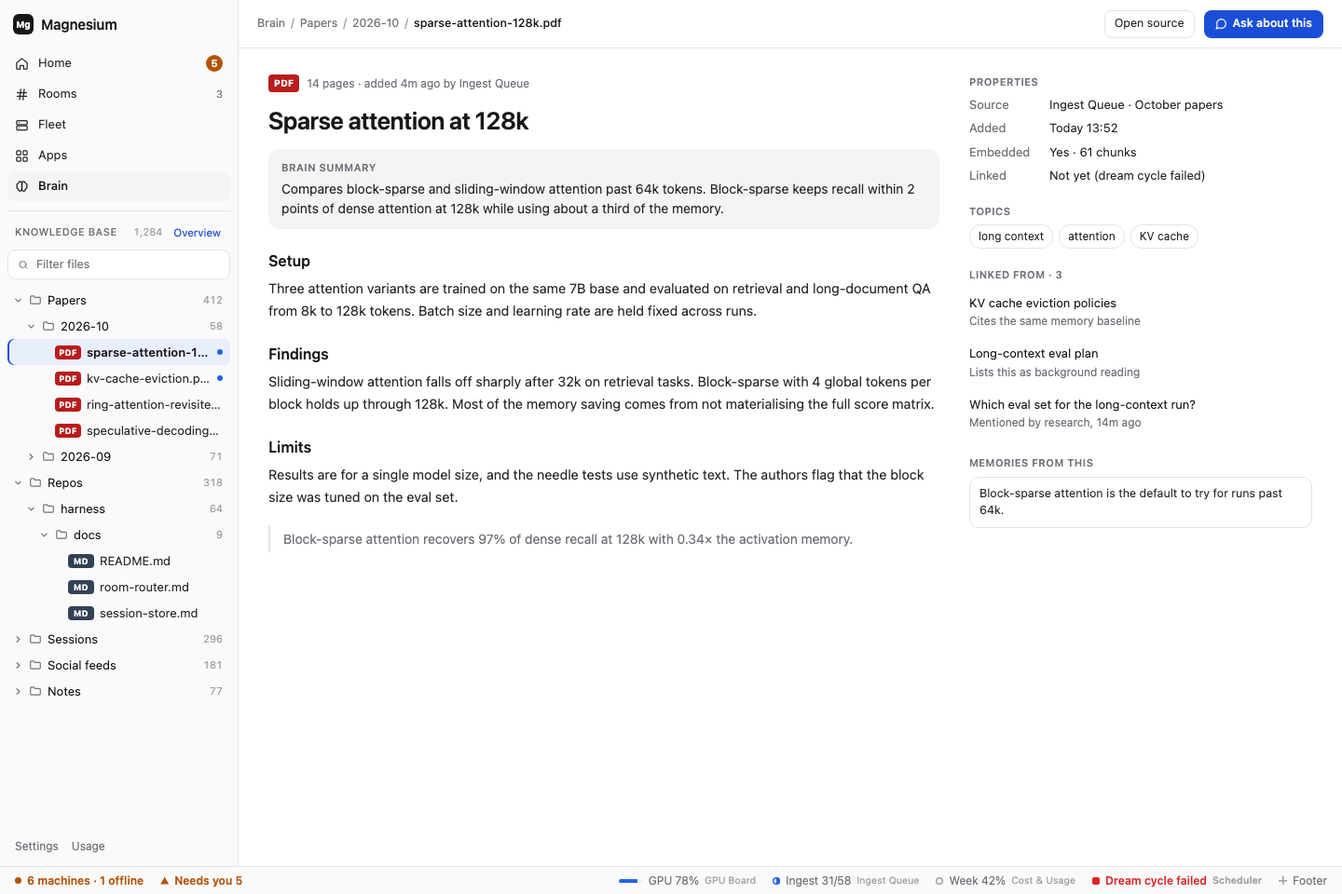
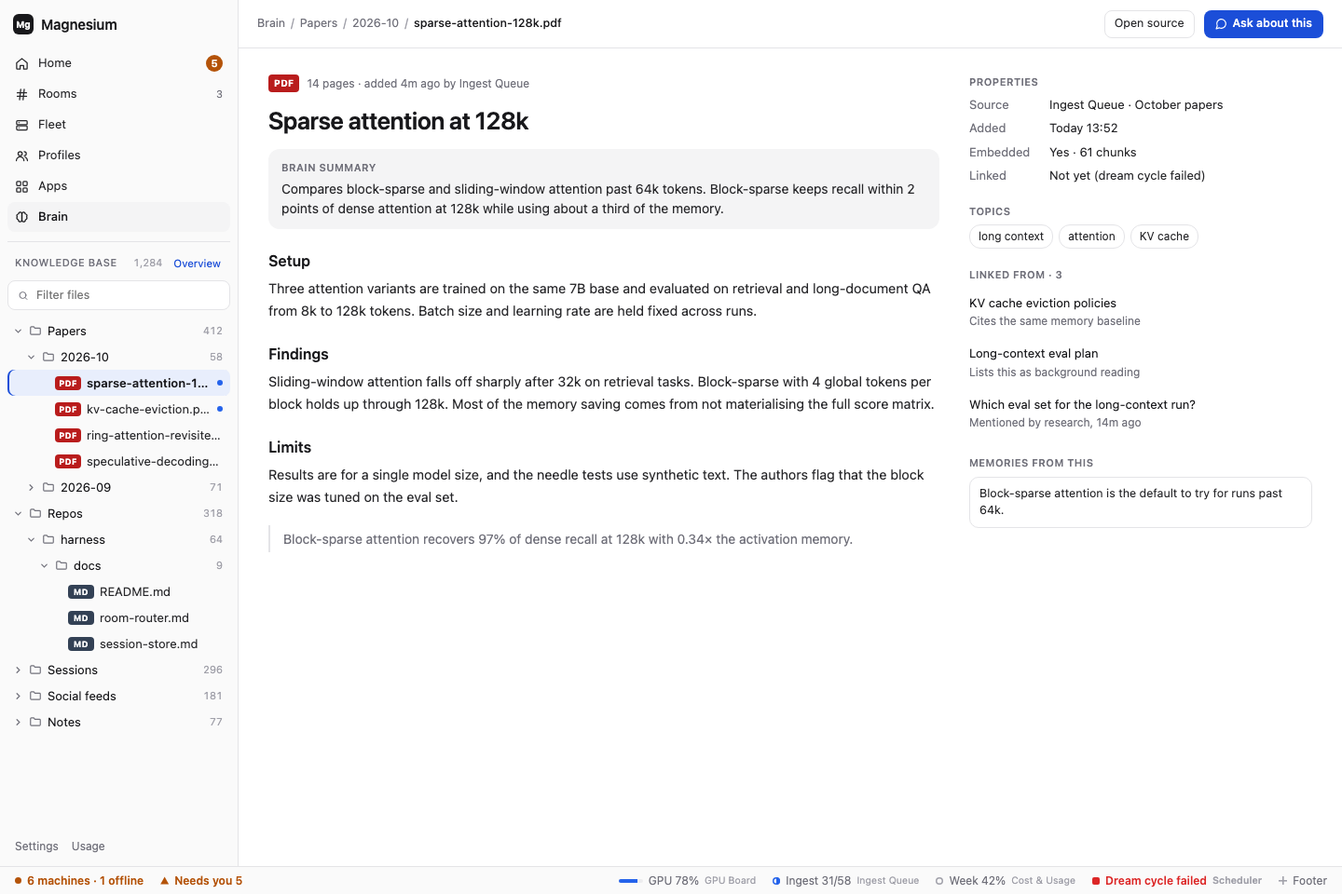
docs: goal 34's boards are approved, and every board has the Profiles place
The owner approved the Profiles boards and decided goal 03's Session board
differences, so goal 34's build starts. Every desktop board's sidebar now
lists Profiles after Fleet.

Changed region(s): [[0.0, 0.1562, 0.1562, 0.8125], [0.125, 0.25, 0.1562, 0.3125]]

diff --git a/docs/magnesium/mockups/canvas/Brain.dc.html b/docs/magnesium/mockups/canvas/Brain.dc.html
@@ -42,6 +42,10 @@ a{color:inherit;text-decoration:none}a:hover{color:inherit}
         <svg width="15" height="15" viewBox="0 0 24 24" fill="none" stroke="currentColor" stroke-width="2" stroke-linecap="round" stroke-linejoin="round" aria-hidden="true"><rect x="3" y="4" width="18" height="7" rx="1.5"></rect><rect x="3" y="13" width="18" height="7" rx="1.5"></rect><path d="M7 7.5h.01M7 16.5h.01"></path></svg>
         <span style="flex: 1">Fleet</span><span style="width: 7px; height: 7px; border-radius: 2px; background: var(--err)" title="One machine offline"></span>
       </a>
+      <a href="Profiles.dc.html" class="hov" style="display: flex; align-items: center; gap: 10px; height: 32px; padding: 0 8px; border-radius: 8px; font-size: 13px">
+        <svg width="15" height="15" viewBox="0 0 24 24" fill="none" stroke="currentColor" stroke-width="2" stroke-linecap="round" stroke-linejoin="round" aria-hidden="true"><circle cx="9" cy="8" r="3.5"></circle><path d="M2.5 20a6.5 6.5 0 0 1 13 0"></path><path d="M16 4.5a3.5 3.5 0 0 1 0 7M21.5 20a6.5 6.5 0 0 0-4-6"></path></svg>
+        <span style="flex: 1">Profiles</span>
+      </a>
       <a href="Apps.dc.html" class="hov" style="display: flex; align-items: center; gap: 10px; height: 32px; padding: 0 8px; border-radius: 8px; font-size: 13px">
         <svg width="15" height="15" viewBox="0 0 24 24" fill="none" stroke="currentColor" stroke-width="2" stroke-linecap="round" stroke-linejoin="round" aria-hidden="true"><rect x="3" y="3" width="7" height="7" rx="1.5"></rect><rect x="14" y="3" width="7" height="7" rx="1.5"></rect><rect x="3" y="14" width="7" height="7" rx="1.5"></rect><rect x="14" y="14" width="7" height="7" rx="1.5"></rect></svg>
         <span style="flex: 1">Apps</span><span style="font-size: 11px; color: var(--muted)">4 pinned</span>

diff --git a/docs/magnesium/mockups/canvas/Apps.dc.html b/docs/magnesium/mockups/canvas/Apps.dc.html
@@ -42,6 +42,10 @@ a{color:inherit;text-decoration:none}a:hover{color:inherit}
         <svg width="15" height="15" viewBox="0 0 24 24" fill="none" stroke="currentColor" stroke-width="2" stroke-linecap="round" stroke-linejoin="round" aria-hidden="true"><rect x="3" y="4" width="18" height="7" rx="1.5"></rect><rect x="3" y="13" width="18" height="7" rx="1.5"></rect><path d="M7 7.5h.01M7 16.5h.01"></path></svg>
         <span style="flex: 1">Fleet</span>
       </a>
+      <a href="Profiles.dc.html" class="hov" style="display: flex; align-items: center; gap: 10px; height: 32px; padding: 0 8px; border-radius: 8px; font-size: 13px">
+        <svg width="15" height="15" viewBox="0 0 24 24" fill="none" stroke="currentColor" stroke-width="2" stroke-linecap="round" stroke-linejoin="round" aria-hidden="true"><circle cx="9" cy="8" r="3.5"></circle><path d="M2.5 20a6.5 6.5 0 0 1 13 0"></path><path d="M16 4.5a3.5 3.5 0 0 1 0 7M21.5 20a6.5 6.5 0 0 0-4-6"></path></svg>
+        <span style="flex: 1">Profiles</span>
+      </a>
       <a href="Apps.dc.html" aria-current="page" style="display: flex; align-items: center; gap: 10px; height: 32px; padding: 0 8px; border-radius: 8px; font-size: 13px; background: var(--hover); color: var(--fg-strong); font-weight: 500">
         <svg width="15" height="15" viewBox="0 0 24 24" fill="none" stroke="currentColor" stroke-width="2" stroke-linecap="round" stroke-linejoin="round" aria-hidden="true"><rect x="3" y="3" width="7" height="7" rx="1.5"></rect><rect x="14" y="3" width="7" height="7" rx="1.5"></rect><rect x="3" y="14" width="7" height="7" rx="1.5"></rect><rect x="14" y="14" width="7" height="7" rx="1.5"></rect></svg>
         <span style="flex: 1">Apps</span>

diff --git a/docs/magnesium/mockups/canvas/AppView.dc.html b/docs/magnesium/mockups/canvas/AppView.dc.html
@@ -40,6 +40,10 @@ a{color:inherit;text-decoration:none}a:hover{color:inherit}
         <svg width="15" height="15" viewBox="0 0 24 24" fill="none" stroke="currentColor" stroke-width="2" stroke-linecap="round" stroke-linejoin="round" aria-hidden="true"><rect x="3" y="4" width="18" height="7" rx="1.5"></rect><rect x="3" y="13" width="18" height="7" rx="1.5"></rect><path d="M7 7.5h.01M7 16.5h.01"></path></svg>
         <span style="flex: 1">Fleet</span>
       </a>
+      <a href="Profiles.dc.html" class="hov" style="display: flex; align-items: center; gap: 10px; height: 32px; padding: 0 8px; border-radius: 8px; font-size: 13px">
+        <svg width="15" height="15" viewBox="0 0 24 24" fill="none" stroke="currentColor" stroke-width="2" stroke-linecap="round" stroke-linejoin="round" aria-hidden="true"><circle cx="9" cy="8" r="3.5"></circle><path d="M2.5 20a6.5 6.5 0 0 1 13 0"></path><path d="M16 4.5a3.5 3.5 0 0 1 0 7M21.5 20a6.5 6.5 0 0 0-4-6"></path></svg>
+        <span style="flex: 1">Profiles</span>
+      </a>
       <a href="Apps.dc.html" class="hov" style="display: flex; align-items: center; gap: 10px; height: 32px; padding: 0 8px; border-radius: 8px; font-size: 13px">
         <svg width="15" height="15" viewBox="0 0 24 24" fill="none" stroke="currentColor" stroke-width="2" stroke-linecap="round" stroke-linejoin="round" aria-hidden="true"><rect x="3" y="3" width="7" height="7" rx="1.5"></rect><rect x="14" y="3" width="7" height="7" rx="1.5"></rect><rect x="3" y="14" width="7" height="7" rx="1.5"></rect><rect x="14" y="14" width="7" height="7" rx="1.5"></rect></svg>
         <span style="flex: 1">Apps</span>

diff --git a/docs/magnesium/mockups/canvas/BrainDoc.dc.html b/docs/magnesium/mockups/canvas/BrainDoc.dc.html
@@ -41,6 +41,10 @@ a{color:inherit;text-decoration:none}a:hover{color:inherit}
         <svg width="15" height="15" viewBox="0 0 24 24" fill="none" stroke="currentColor" stroke-width="2" stroke-linecap="round" stroke-linejoin="round" aria-hidden="true"><rect x="3" y="4" width="18" height="7" rx="1.5"></rect><rect x="3" y="13" width="18" height="7" rx="1.5"></rect><path d="M7 7.5h.01M7 16.5h.01"></path></svg>
         <span style="flex: 1">Fleet</span>
       </a>
+      <a href="Profiles.dc.html" class="hov" style="display: flex; align-items: center; gap: 10px; height: 32px; padding: 0 8px; border-radius: 8px; font-size: 13px">
+        <svg width="15" height="15" viewBox="0 0 24 24" fill="none" stroke="currentColor" stroke-width="2" stroke-linecap="round" stroke-linejoin="round" aria-hidden="true"><circle cx="9" cy="8" r="3.5"></circle><path d="M2.5 20a6.5 6.5 0 0 1 13 0"></path><path d="M16 4.5a3.5 3.5 0 0 1 0 7M21.5 20a6.5 6.5 0 0 0-4-6"></path></svg>
+        <span style="flex: 1">Profiles</span>
+      </a>
       <a href="Apps.dc.html" class="hov" style="display: flex; align-items: center; gap: 10px; height: 32px; padding: 0 8px; border-radius: 8px; font-size: 13px">
         <svg width="15" height="15" viewBox="0 0 24 24" fill="none" stroke="currentColor" stroke-width="2" stroke-linecap="round" stroke-linejoin="round" aria-hidden="true"><rect x="3" y="3" width="7" height="7" rx="1.5"></rect><rect x="14" y="3" width="7" height="7" rx="1.5"></rect><rect x="3" y="14" width="7" height="7" rx="1.5"></rect><rect x="14" y="14" width="7" height="7" rx="1.5"></rect></svg>
         <span style="flex: 1">Apps</span>

diff --git a/docs/magnesium/mockups/canvas/Fleet.dc.html b/docs/magnesium/mockups/canvas/Fleet.dc.html
@@ -40,6 +40,10 @@ a{color:inherit;text-decoration:none}a:hover{color:inherit}
         <svg width="15" height="15" viewBox="0 0 24 24" fill="none" stroke="currentColor" stroke-width="2" stroke-linecap="round" stroke-linejoin="round" aria-hidden="true"><rect x="3" y="4" width="18" height="7" rx="1.5"></rect><rect x="3" y="13" width="18" height="7" rx="1.5"></rect><path d="M7 7.5h.01M7 16.5h.01"></path></svg>
         <span style="flex: 1">Fleet</span>
       </a>
+      <a href="Profiles.dc.html" class="hov" style="display: flex; align-items: center; gap: 10px; height: 32px; padding: 0 8px; border-radius: 8px; font-size: 13px">
+        <svg width="15" height="15" viewBox="0 0 24 24" fill="none" stroke="currentColor" stroke-width="2" stroke-linecap="round" stroke-linejoin="round" aria-hidden="true"><circle cx="9" cy="8" r="3.5"></circle><path d="M2.5 20a6.5 6.5 0 0 1 13 0"></path><path d="M16 4.5a3.5 3.5 0 0 1 0 7M21.5 20a6.5 6.5 0 0 0-4-6"></path></svg>
+        <span style="flex: 1">Profiles</span>
+      </a>
       <a href="Apps.dc.html" class="hov" style="display: flex; align-items: center; gap: 10px; height: 32px; padding: 0 8px; border-radius: 8px; font-size: 13px">
         <svg width="15" height="15" viewBox="0 0 24 24" fill="none" stroke="currentColor" stroke-width="2" stroke-linecap="round" stroke-linejoin="round" aria-hidden="true"><rect x="3" y="3" width="7" height="7" rx="1.5"></rect><rect x="14" y="3" width="7" height="7" rx="1.5"></rect><rect x="3" y="14" width="7" height="7" rx="1.5"></rect><rect x="14" y="14" width="7" height="7" rx="1.5"></rect></svg>
         <span style="flex: 1">Apps</span>

diff --git a/docs/magnesium/mockups/canvas/Project.dc.html b/docs/magnesium/mockups/canvas/Project.dc.html
@@ -41,6 +41,10 @@ a{color:inherit;text-decoration:none}a:hover{color:inherit}
         <svg width="15" height="15" viewBox="0 0 24 24" fill="none" stroke="currentColor" stroke-width="2" stroke-linecap="round" stroke-linejoin="round" aria-hidden="true"><rect x="3" y="4" width="18" height="7" rx="1.5"></rect><rect x="3" y="13" width="18" height="7" rx="1.5"></rect><path d="M7 7.5h.01M7 16.5h.01"></path></svg>
         <span style="flex: 1">Fleet</span>
       </a>
+      <a href="Profiles.dc.html" class="hov" style="display: flex; align-items: center; gap: 10px; height: 32px; padding: 0 8px; border-radius: 8px; font-size: 13px">
+        <svg width="15" height="15" viewBox="0 0 24 24" fill="none" stroke="currentColor" stroke-width="2" stroke-linecap="round" stroke-linejoin="round" aria-hidden="true"><circle cx="9" cy="8" r="3.5"></circle><path d="M2.5 20a6.5 6.5 0 0 1 13 0"></path><path d="M16 4.5a3.5 3.5 0 0 1 0 7M21.5 20a6.5 6.5 0 0 0-4-6"></path></svg>
+        <span style="flex: 1">Profiles</span>
+      </a>
       <a href="Apps.dc.html" class="hov" style="display: flex; align-items: center; gap: 10px; height: 32px; padding: 0 8px; border-radius: 8px; font-size: 13px">
         <svg width="15" height="15" viewBox="0 0 24 24" fill="none" stroke="currentColor" stroke-width="2" stroke-linecap="round" stroke-linejoin="round" aria-hidden="true"><rect x="3" y="3" width="7" height="7" rx="1.5"></rect><rect x="14" y="3" width="7" height="7" rx="1.5"></rect><rect x="3" y="14" width="7" height="7" rx="1.5"></rect><rect x="14" y="14" width="7" height="7" rx="1.5"></rect></svg>
         <span style="flex: 1">Apps</span>

diff --git a/docs/magnesium/mockups/canvas/Room.dc.html b/docs/magnesium/mockups/canvas/Room.dc.html
@@ -42,6 +42,10 @@ a{color:inherit;text-decoration:none}a:hover{color:inherit}
         <svg width="15" height="15" viewBox="0 0 24 24" fill="none" stroke="currentColor" stroke-width="2" stroke-linecap="round" stroke-linejoin="round" aria-hidden="true"><rect x="3" y="4" width="18" height="7" rx="1.5"></rect><rect x="3" y="13" width="18" height="7" rx="1.5"></rect><path d="M7 7.5h.01M7 16.5h.01"></path></svg>
         <span style="flex: 1">Fleet</span>
       </a>
+      <a href="Profiles.dc.html" class="hov" style="display: flex; align-items: center; gap: 10px; height: 32px; padding: 0 8px; border-radius: 8px; font-size: 13px">
+        <svg width="15" height="15" viewBox="0 0 24 24" fill="none" stroke="currentColor" stroke-width="2" stroke-linecap="round" stroke-linejoin="round" aria-hidden="true"><circle cx="9" cy="8" r="3.5"></circle><path d="M2.5 20a6.5 6.5 0 0 1 13 0"></path><path d="M16 4.5a3.5 3.5 0 0 1 0 7M21.5 20a6.5 6.5 0 0 0-4-6"></path></svg>
+        <span style="flex: 1">Profiles</span>
+      </a>
       <a href="Apps.dc.html" class="hov" style="display: flex; align-items: center; gap: 10px; height: 32px; padding: 0 8px; border-radius: 8px; font-size: 13px">
         <svg width="15" height="15" viewBox="0 0 24 24" fill="none" stroke="currentColor" stroke-width="2" stroke-linecap="round" stroke-linejoin="round" aria-hidden="true"><rect x="3" y="3" width="7" height="7" rx="1.5"></rect><rect x="14" y="3" width="7" height="7" rx="1.5"></rect><rect x="3" y="14" width="7" height="7" rx="1.5"></rect><rect x="14" y="14" width="7" height="7" rx="1.5"></rect></svg>
         <span style="flex: 1">Apps</span>

diff --git a/docs/magnesium/mockups/canvas/Session.dc.html b/docs/magnesium/mockups/canvas/Session.dc.html
@@ -41,6 +41,10 @@ a{color:inherit;text-decoration:none}a:hover{color:inherit}
         <svg width="15" height="15" viewBox="0 0 24 24" fill="none" stroke="currentColor" stroke-width="2" stroke-linecap="round" stroke-linejoin="round" aria-hidden="true"><rect x="3" y="4" width="18" height="7" rx="1.5"></rect><rect x="3" y="13" width="18" height="7" rx="1.5"></rect><path d="M7 7.5h.01M7 16.5h.01"></path></svg>
         <span style="flex: 1">Fleet</span>
       </a>
+      <a href="Profiles.dc.html" class="hov" style="display: flex; align-items: center; gap: 10px; height: 32px; padding: 0 8px; border-radius: 8px; font-size: 13px">
+        <svg width="15" height="15" viewBox="0 0 24 24" fill="none" stroke="currentColor" stroke-width="2" stroke-linecap="round" stroke-linejoin="round" aria-hidden="true"><circle cx="9" cy="8" r="3.5"></circle><path d="M2.5 20a6.5 6.5 0 0 1 13 0"></path><path d="M16 4.5a3.5 3.5 0 0 1 0 7M21.5 20a6.5 6.5 0 0 0-4-6"></path></svg>
+        <span style="flex: 1">Profiles</span>
+      </a>
       <a href="Apps.dc.html" class="hov" style="display: flex; align-items: center; gap: 10px; height: 32px; padding: 0 8px; border-radius: 8px; font-size: 13px">
         <svg width="15" height="15" viewBox="0 0 24 24" fill="none" stroke="currentColor" stroke-width="2" stroke-linecap="round" stroke-linejoin="round" aria-hidden="true"><rect x="3" y="3" width="7" height="7" rx="1.5"></rect><rect x="14" y="3" width="7" height="7" rx="1.5"></rect><rect x="3" y="14" width="7" height="7" rx="1.5"></rect><rect x="14" y="14" width="7" height="7" rx="1.5"></rect></svg>
         <span style="flex: 1">Apps</span>

diff --git a/docs/magnesium/mockups/canvas/Main.dc.html b/docs/magnesium/mockups/canvas/Main.dc.html
@@ -59,6 +59,10 @@ a{color:inherit;text-decoration:none}a:hover{color:inherit}
         <span style="flex: 1">Fleet</span>
         <span style="width: 7px; height: 7px; border-radius: 2px; background: var(--err)" title="One machine offline"></span>
       </a>
+      <a href="Profiles.dc.html" class="hov" style="display: flex; align-items: center; gap: 10px; height: 32px; padding: 0 8px; border-radius: 8px; font-size: 13px">
+        <svg width="15" height="15" viewBox="0 0 24 24" fill="none" stroke="currentColor" stroke-width="2" stroke-linecap="round" stroke-linejoin="round" aria-hidden="true"><circle cx="9" cy="8" r="3.5"></circle><path d="M2.5 20a6.5 6.5 0 0 1 13 0"></path><path d="M16 4.5a3.5 3.5 0 0 1 0 7M21.5 20a6.5 6.5 0 0 0-4-6"></path></svg>
+        <span style="flex: 1">Profiles</span>
+      </a>
       <button type="button" class="hov" title="Not mocked yet" style="display: flex; align-items: center; gap: 10px; height: 32px; padding: 0 8px; border-radius: 8px; font-size: 13px; border: 0; background: transparent; text-align: left">
         <svg width="15" height="15" viewBox="0 0 24 24" fill="none" stroke="currentColor" stroke-width="2" stroke-linecap="round" stroke-linejoin="round" aria-hidden="true"><circle cx="12" cy="12" r="9"></circle><path d="M12 7v5l3 2"></path></svg>
         <span style="flex: 1">Schedule</span>

diff --git a/TRACKER.md b/TRACKER.md
@@ -6,44 +6,44 @@ The one place for the order goals are built in and where each one stands. Each g
 - **Status** is `Planned`, `In progress`, `Verified` or `Blocked`, with the reason when blocked.
 - Change a goal's row in the same commit that changes its status.
 
-| Goal                                                                   | Order | Description                                                                                                                                                                                                                                                     | Status                                |
-| ---------------------------------------------------------------------- | ----- | --------------------------------------------------------------------------------------------------------------------------------------------------------------------------------------------------------------------------------------------------------------- | ------------------------------------- |
-| [01](docs/magnesium/goals/_completed/01-fork-and-rebrand.goal)         | 1     | **Fork and rebrand.** T3 Code runs as Magnesium, with telemetry and self-update off.                                                                                                                                                                            | Verified                              |
-| [02](docs/magnesium/goals/_completed/02-deploy-hub-and-machines.goal)  | 2     | **Deploy the hub and machines.** One URL on desktop and phone reaches every server through the hub.                                                                                                                                                             | Verified                              |
-| [03](docs/magnesium/goals/_completed/03-profiles-and-sandboxes.goal)   | 3     | **Profiles and sandboxes.** Pick a profile and sandbox for any thread, on any machine. Agents run fenced by default, and the hub delivers profiles to the machines.                                                                                             | Verified                              |
-| [04](docs/magnesium/goals/_completed/04-hub-link.goal)                 | 4     | **Hub link.** The hub shows every server live in Fleet; devices reach machines only through the hub.                                                                                                                                                            | Verified                              |
-| [05](docs/magnesium/goals/_completed/05-shell-sidebar-and-footer.goal) | 5     | **Shell, sidebar and footer.** Places, project folders and the footer status bar; installs as a desktop app.                                                                                                                                                    | Verified                              |
-| [06](docs/magnesium/goals/_completed/06-home-needs-you.goal)           | 6     | **Home: needs you.** Every approval, question and plan from every machine shows on Home and is answered there.                                                                                                                                                  | Verified                              |
-| [25](docs/magnesium/goals/_completed/25-spokes-on-kubernetes.goal)     | 7     | **Spokes in Kubernetes.** Machine servers run in their own pods or attached inside workloads' pods, and join and pair with the hub by themselves.                                                                                                               | Verified                              |
-| [24](docs/magnesium/goals/_completed/24-upstream-v2.goal)              | 8     | **Upstream V2.** Upstream's v0.1.0 with Orchestrator V2 on every server; scheduled runs show on Home.                                                                                                                                                           | Verified                              |
-| [34](docs/magnesium/goals/34-profiles-in-the-app.goal)                 | 9     | **Profiles in the app.** Create, edit and delete profiles in the app: instructions, skills, MCP tools, environment, machines and knowledge access. See which machines hold each version, and approve the changes agents ask for.                                | In progress: boards wait for approval |
-| [35](docs/magnesium/goals/35-run-the-fleet-from-the-app.goal)          | 10    | **Run the fleet from the app.** Update, roll back and back up any server from Fleet, the hub included; add, forget and edit machines and pods; see each server's backups and time zone, with Restore.                                                           | Planned                               |
-| [33](docs/magnesium/goals/33-waiting-on-you.goal)                      | 11    | **Waiting on you.** A turn that ends asking you something, or waiting on your approval, shows on Home's Needs you, checked by a cheap model.                                                                                                                    | Planned                               |
-| [15](docs/magnesium/goals/15-projects.goal)                            | 12    | **Projects.** One project across machines; its page shows what needs you and every thread.                                                                                                                                                                      | Planned                               |
-| [30](docs/magnesium/goals/30-provider-accounts.goal)                   | 13    | **Accounts and model access.** Sign in to Claude Code and Codex once on the hub, and add, test and rotate model keys and gateways with their model lists. Every machine gets them, you swap the active account from the hub, and usage is recorded per profile. | Planned                               |
-| [31](docs/magnesium/goals/31-add-a-machine-over-ssh.goal)              | 14    | **Add a machine over SSH.** Give the hub an SSH target and it installs, starts, pairs and ships your accounts, in a pod too.                                                                                                                                    | Planned                               |
-| [32](docs/magnesium/goals/32-kubernetes-clusters-from-the-hub.goal)    | 15    | **Kubernetes clusters from the hub.** Give the hub a namespace: it deploys the gateway, runs Magnesium's own pods and attaches to a workload you pick.                                                                                                          | Planned                               |
-| [26](docs/magnesium/goals/26-recaps.goal)                              | 16    | **Recaps.** A long-running session says what it did, what is open for you and what it is doing now, with a model you pick.                                                                                                                                      | Planned                               |
-| [07](docs/magnesium/goals/07-phone-and-push.goal)                      | 17    | **Phone and push.** Installed on the phone; a locked phone gets "1 needs you" and you approve from it.                                                                                                                                                          | Planned                               |
-| [08](docs/magnesium/goals/08-rooms.goal)                               | 18    | **Rooms.** You and several bots in one room, with explicit routing, hop caps and Stop.                                                                                                                                                                          | Planned                               |
-| [09](docs/magnesium/goals/09-room-routing.goal)                        | 19    | **Room routing.** A router picks who an unaddressed message is for, in shadow mode first, then live.                                                                                                                                                            | Planned                               |
-| [10](docs/magnesium/goals/10-fleet-and-launch.goal)                    | 20    | **Fleet and launch.** Live load and GPUs per machine, what runs where, and launch anywhere.                                                                                                                                                                     | Planned                               |
-| [11](docs/magnesium/goals/11-schedule.goal)                            | 21    | **Schedule.** Create and edit scheduled runs, with history and a failure inbox.                                                                                                                                                                                 | Planned                               |
-| [18](docs/magnesium/goals/18-agent-control.goal)                       | 22    | **Agent control.** A profile launches and steers a worker on another machine, within your grants.                                                                                                                                                               | Planned                               |
-| [19](docs/magnesium/goals/19-more-harnesses-and-sandboxes.goal)        | 23    | **More harnesses and sandboxes.** OpenCode, Pi and oh-my-pi profiles; Kubernetes and microVM sandboxes.                                                                                                                                                         | Planned                               |
-| [29](docs/magnesium/goals/29-magnesium-brain.goal)                     | 24    | **Magnesium Brain.** Magnesium runs its own knowledge base; agents reach it only through Magnesium, and an existing one can be imported once.                                                                                                                   | Planned                               |
-| [36](docs/magnesium/goals/36-brain-sources.goal)                       | 25    | **Brain sources.** Add, sync, pause, fix and remove what feeds the Brain, move the old knowledge base's collectors in, and say why each new item matters.                                                                                                       | Planned                               |
-| [12](docs/magnesium/goals/12-brain-reader.goal)                        | 26    | **Brain reader.** Ask the Brain, browse it as a tree, read any page and start a thread about it.                                                                                                                                                                | Planned                               |
-| [13](docs/magnesium/goals/13-brain-memories.goal)                      | 27    | **Brain memories.** Edit a memory, ask its owner to change one, and retry the dream cycle.                                                                                                                                                                      | Planned                               |
-| [14](docs/magnesium/goals/14-profile-learning.goal)                    | 28    | **Profile learning.** A profile's sessions turn into its own memory notes and skill proposals.                                                                                                                                                                  | Planned                               |
-| [23](docs/magnesium/goals/23-project-knowledge.goal)                   | 29    | **Project knowledge.** Drop a doc on a project; it lands in the Brain, linked to the project's threads.                                                                                                                                                         | Planned                               |
-| [27](docs/magnesium/goals/27-design-system.goal)                       | 30    | **Design system.** Apps built only from Magnesium's kit look native and follow your theme; agents build with it.                                                                                                                                                | Planned                               |
-| [16](docs/magnesium/goals/16-app-host.goal)                            | 31    | **App host.** An app gets a page, a footer item, a popover and actions that ask first.                                                                                                                                                                          | Planned                               |
-| [28](docs/magnesium/goals/28-machine-parts.goal)                       | 32    | **Machine parts.** An app with a part on chosen machines: stats for its hub page, tools for sessions there.                                                                                                                                                     | Planned                               |
-| [17](docs/magnesium/goals/17-app-builder.goal)                         | 33    | **App builder.** A builder thread on the hub builds and publishes apps and plugins with you, coordinating agents on other machines.                                                                                                                             | Planned                               |
-| [20](docs/magnesium/goals/20-desktop-pill.goal)                        | 34    | **Desktop pill.** A small desktop pill shows who needs you and approves in one click.                                                                                                                                                                           | Planned                               |
-| [21](docs/magnesium/goals/21-hermes-moves.goal)                        | 35    | **Hermes moves.** Bots import from Hermes Agent one at a time, with a trial window, until Hermes can be retired.                                                                                                                                                | Planned                               |
-| [22](docs/magnesium/goals/22-release.goal)                             | 36    | **Release.** A day of daily use, and upgrade, rollback and restore drills pass.                                                                                                                                                                                 | Planned                               |
+| Goal                                                                   | Order | Description                                                                                                                                                                                                                                                     | Status      |
+| ---------------------------------------------------------------------- | ----- | --------------------------------------------------------------------------------------------------------------------------------------------------------------------------------------------------------------------------------------------------------------- | ----------- |
+| [01](docs/magnesium/goals/_completed/01-fork-and-rebrand.goal)         | 1     | **Fork and rebrand.** T3 Code runs as Magnesium, with telemetry and self-update off.                                                                                                                                                                            | Verified    |
+| [02](docs/magnesium/goals/_completed/02-deploy-hub-and-machines.goal)  | 2     | **Deploy the hub and machines.** One URL on desktop and phone reaches every server through the hub.                                                                                                                                                             | Verified    |
+| [03](docs/magnesium/goals/_completed/03-profiles-and-sandboxes.goal)   | 3     | **Profiles and sandboxes.** Pick a profile and sandbox for any thread, on any machine. Agents run fenced by default, and the hub delivers profiles to the machines.                                                                                             | Verified    |
+| [04](docs/magnesium/goals/_completed/04-hub-link.goal)                 | 4     | **Hub link.** The hub shows every server live in Fleet; devices reach machines only through the hub.                                                                                                                                                            | Verified    |
+| [05](docs/magnesium/goals/_completed/05-shell-sidebar-and-footer.goal) | 5     | **Shell, sidebar and footer.** Places, project folders and the footer status bar; installs as a desktop app.                                                                                                                                                    | Verified    |
+| [06](docs/magnesium/goals/_completed/06-home-needs-you.goal)           | 6     | **Home: needs you.** Every approval, question and plan from every machine shows on Home and is answered there.                                                                                                                                                  | Verified    |
+| [25](docs/magnesium/goals/_completed/25-spokes-on-kubernetes.goal)     | 7     | **Spokes in Kubernetes.** Machine servers run in their own pods or attached inside workloads' pods, and join and pair with the hub by themselves.                                                                                                               | Verified    |
+| [24](docs/magnesium/goals/_completed/24-upstream-v2.goal)              | 8     | **Upstream V2.** Upstream's v0.1.0 with Orchestrator V2 on every server; scheduled runs show on Home.                                                                                                                                                           | Verified    |
+| [34](docs/magnesium/goals/34-profiles-in-the-app.goal)                 | 9     | **Profiles in the app.** Create, edit and delete profiles in the app: instructions, skills, MCP tools, environment, machines and knowledge access. See which machines hold each version, and approve the changes agents ask for.                                | In progress |
+| [35](docs/magnesium/goals/35-run-the-fleet-from-the-app.goal)          | 10    | **Run the fleet from the app.** Update, roll back and back up any server from Fleet, the hub included; add, forget and edit machines and pods; see each server's backups and time zone, with Restore.                                                           | Planned     |
+| [33](docs/magnesium/goals/33-waiting-on-you.goal)                      | 11    | **Waiting on you.** A turn that ends asking you something, or waiting on your approval, shows on Home's Needs you, checked by a cheap model.                                                                                                                    | Planned     |
+| [15](docs/magnesium/goals/15-projects.goal)                            | 12    | **Projects.** One project across machines; its page shows what needs you and every thread.                                                                                                                                                                      | Planned     |
+| [30](docs/magnesium/goals/30-provider-accounts.goal)                   | 13    | **Accounts and model access.** Sign in to Claude Code and Codex once on the hub, and add, test and rotate model keys and gateways with their model lists. Every machine gets them, you swap the active account from the hub, and usage is recorded per profile. | Planned     |
+| [31](docs/magnesium/goals/31-add-a-machine-over-ssh.goal)              | 14    | **Add a machine over SSH.** Give the hub an SSH target and it installs, starts, pairs and ships your accounts, in a pod too.                                                                                                                                    | Planned     |
+| [32](docs/magnesium/goals/32-kubernetes-clusters-from-the-hub.goal)    | 15    | **Kubernetes clusters from the hub.** Give the hub a namespace: it deploys the gateway, runs Magnesium's own pods and attaches to a workload you pick.                                                                                                          | Planned     |
+| [26](docs/magnesium/goals/26-recaps.goal)                              | 16    | **Recaps.** A long-running session says what it did, what is open for you and what it is doing now, with a model you pick.                                                                                                                                      | Planned     |
+| [07](docs/magnesium/goals/07-phone-and-push.goal)                      | 17    | **Phone and push.** Installed on the phone; a locked phone gets "1 needs you" and you approve from it.                                                                                                                                                          | Planned     |
+| [08](docs/magnesium/goals/08-rooms.goal)                               | 18    | **Rooms.** You and several bots in one room, with explicit routing, hop caps and Stop.                                                                                                                                                                          | Planned     |
+| [09](docs/magnesium/goals/09-room-routing.goal)                        | 19    | **Room routing.** A router picks who an unaddressed message is for, in shadow mode first, then live.                                                                                                                                                            | Planned     |
+| [10](docs/magnesium/goals/10-fleet-and-launch.goal)                    | 20    | **Fleet and launch.** Live load and GPUs per machine, what runs where, and launch anywhere.                                                                                                                                                                     | Planned     |
+| [11](docs/magnesium/goals/11-schedule.goal)                            | 21    | **Schedule.** Create and edit scheduled runs, with history and a failure inbox.                                                                                                                                                                                 | Planned     |
+| [18](docs/magnesium/goals/18-agent-control.goal)                       | 22    | **Agent control.** A profile launches and steers a worker on another machine, within your grants.                                                                                                                                                               | Planned     |
+| [19](docs/magnesium/goals/19-more-harnesses-and-sandboxes.goal)        | 23    | **More harnesses and sandboxes.** OpenCode, Pi and oh-my-pi profiles; Kubernetes and microVM sandboxes.                                                                                                                                                         | Planned     |
+| [29](docs/magnesium/goals/29-magnesium-brain.goal)                     | 24    | **Magnesium Brain.** Magnesium runs its own knowledge base; agents reach it only through Magnesium, and an existing one can be imported once.                                                                                                                   | Planned     |
+| [36](docs/magnesium/goals/36-brain-sources.goal)                       | 25    | **Brain sources.** Add, sync, pause, fix and remove what feeds the Brain, move the old knowledge base's collectors in, and say why each new item matters.                                                                                                       | Planned     |
+| [12](docs/magnesium/goals/12-brain-reader.goal)                        | 26    | **Brain reader.** Ask the Brain, browse it as a tree, read any page and start a thread about it.                                                                                                                                                                | Planned     |
+| [13](docs/magnesium/goals/13-brain-memories.goal)                      | 27    | **Brain memories.** Edit a memory, ask its owner to change one, and retry the dream cycle.                                                                                                                                                                      | Planned     |
+| [14](docs/magnesium/goals/14-profile-learning.goal)                    | 28    | **Profile learning.** A profile's sessions turn into its own memory notes and skill proposals.                                                                                                                                                                  | Planned     |
+| [23](docs/magnesium/goals/23-project-knowledge.goal)                   | 29    | **Project knowledge.** Drop a doc on a project; it lands in the Brain, linked to the project's threads.                                                                                                                                                         | Planned     |
+| [27](docs/magnesium/goals/27-design-system.goal)                       | 30    | **Design system.** Apps built only from Magnesium's kit look native and follow your theme; agents build with it.                                                                                                                                                | Planned     |
+| [16](docs/magnesium/goals/16-app-host.goal)                            | 31    | **App host.** An app gets a page, a footer item, a popover and actions that ask first.                                                                                                                                                                          | Planned     |
+| [28](docs/magnesium/goals/28-machine-parts.goal)                       | 32    | **Machine parts.** An app with a part on chosen machines: stats for its hub page, tools for sessions there.                                                                                                                                                     | Planned     |
+| [17](docs/magnesium/goals/17-app-builder.goal)                         | 33    | **App builder.** A builder thread on the hub builds and publishes apps and plugins with you, coordinating agents on other machines.                                                                                                                             | Planned     |
+| [20](docs/magnesium/goals/20-desktop-pill.goal)                        | 34    | **Desktop pill.** A small desktop pill shows who needs you and approves in one click.                                                                                                                                                                           | Planned     |
+| [21](docs/magnesium/goals/21-hermes-moves.goal)                        | 35    | **Hermes moves.** Bots import from Hermes Agent one at a time, with a trial window, until Hermes can be retired.                                                                                                                                                | Planned     |
+| [22](docs/magnesium/goals/22-release.goal)                             | 36    | **Release.** A day of daily use, and upgrade, rollback and restore drills pass.                                                                                                                                                                                 | Planned     |
 
 ## What runs in parallel
 
